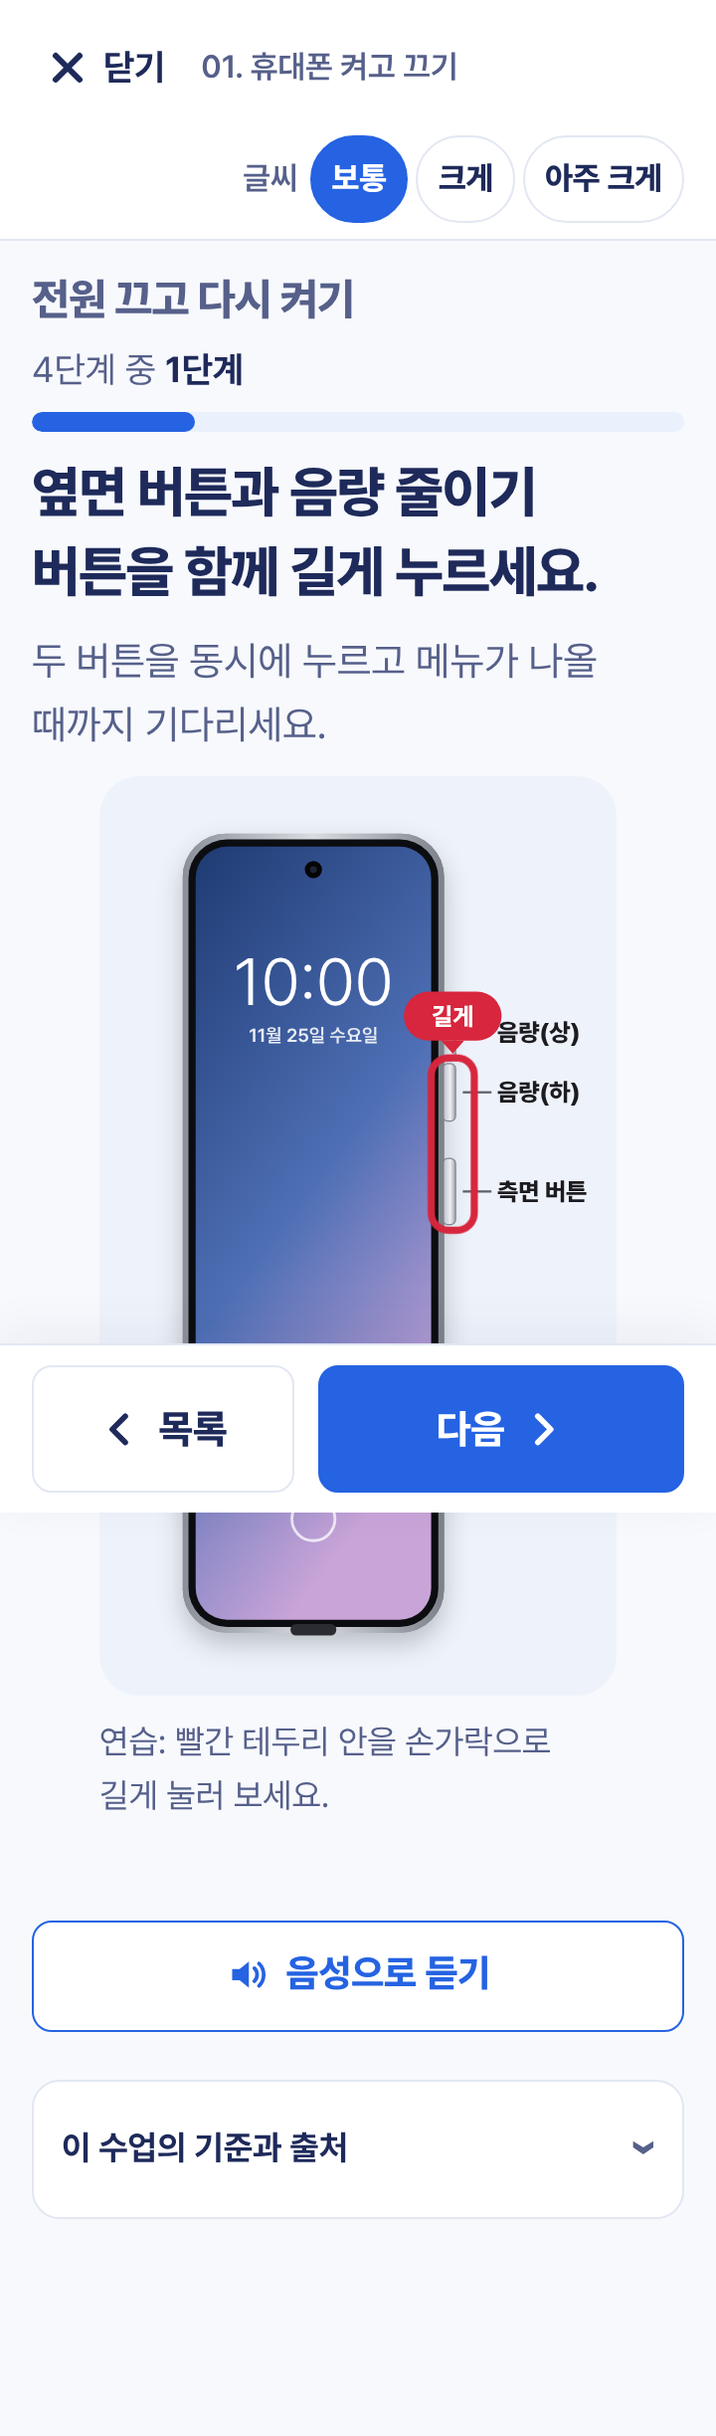
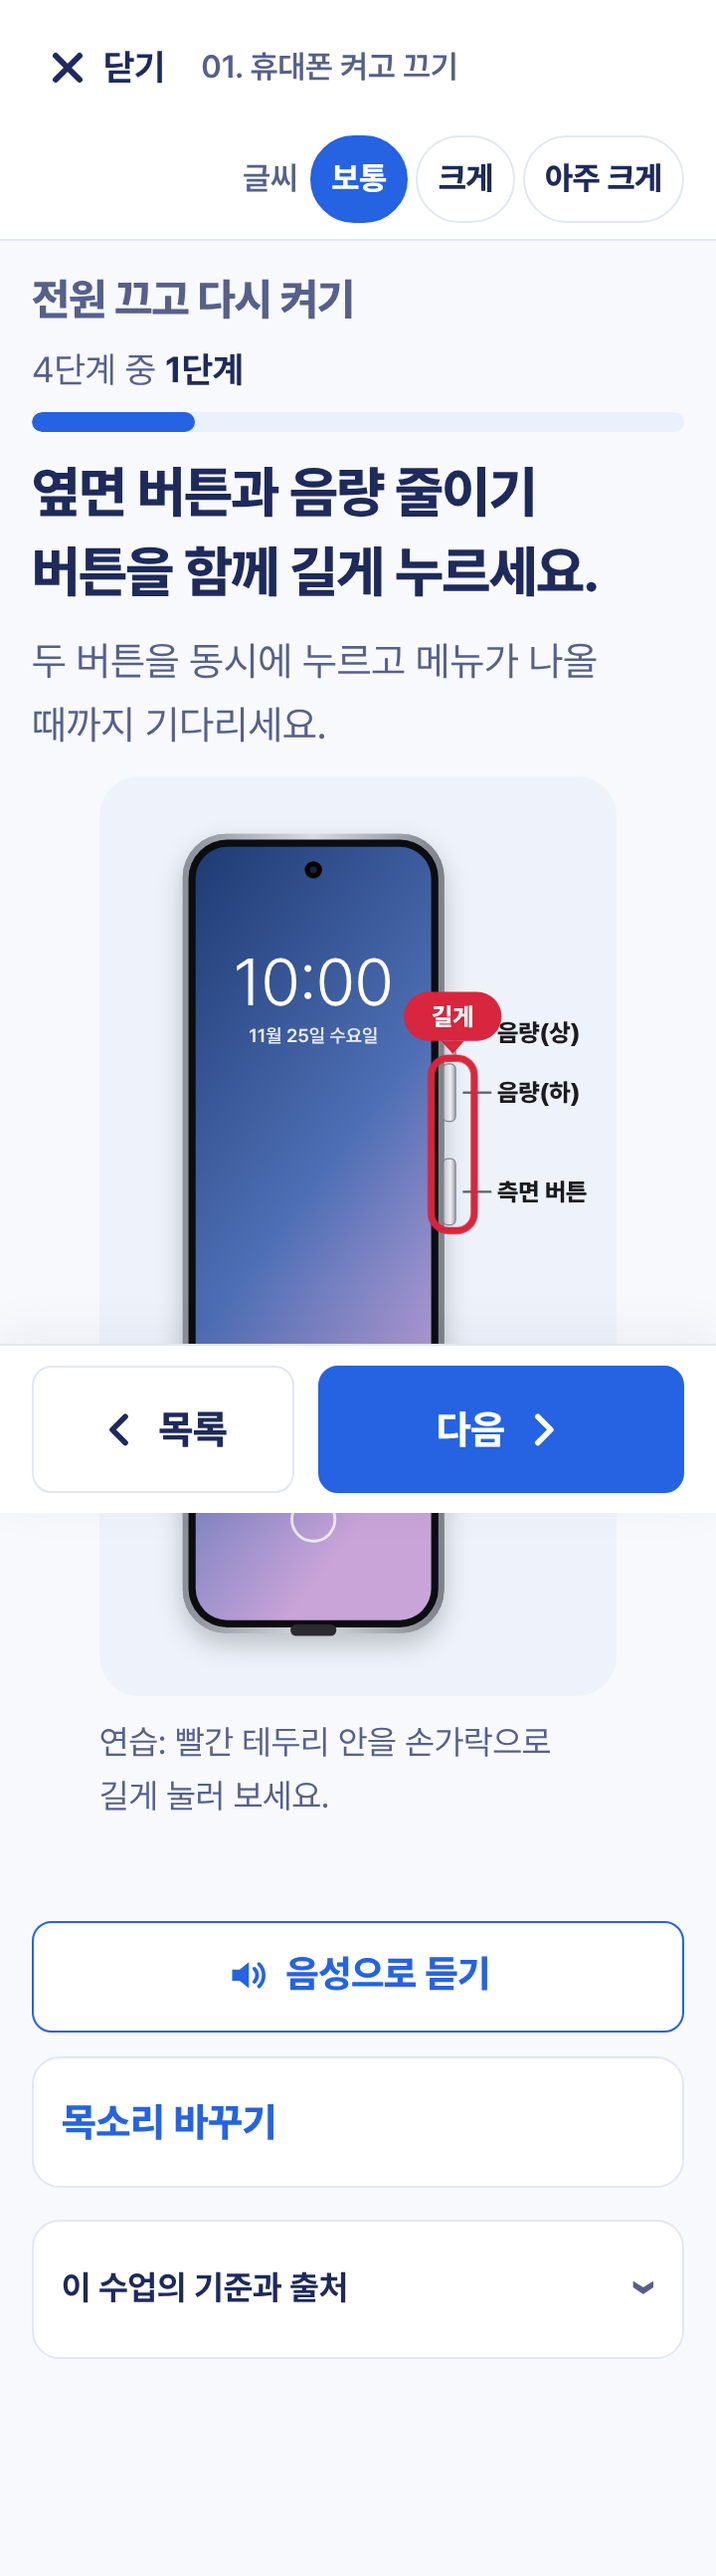
음성 안내: ‘첫 번째 단계’처럼 읽기, 선명한 목소리 자동 선택·목소리 바꾸기
- 단계를 ‘N단계 중 M단계’ 대신 ‘첫 번째·두 번째 단계’로 읽고 마지막 단계는 알려 줌
- 영어 이름·기호·전화번호를 읽기 좋은 말로(와이파이, 플레이 스토어, 음량 내리기, 공일공)
- 기기의 한국어 음성 중 고품질(신경망·온라인·Google·삼성) 음성을 먼저 고르고, 다른 목소리를 골라 들어 보고 기억
- 화면 낭독기용 진행 문구도 ‘두 번째 단계, 모두 4단계’

Claude-Session: https://claude.ai/code/session_01Q3BcEgi969WHnWAarB2Rma

diff --git a/assets/app.js b/assets/app.js
@@ -12,12 +12,13 @@
  *
  * 진행 상황과 글씨 크기는 이 기기의 localStorage 에만 저장한다(서버로 보내지 않음).
  */
-import { CATEGORIES } from '../data/categories.js?v=20261125.0759';
-import { CHAPTERS, GROUPS, findLesson, allLessons } from '../data/galaxy/index.js?v=20261125.0759';
-import { BASE } from '../data/galaxy/helpers.js?v=20261125.0759';
-import { renderScreen } from './screens.js?v=20261125.0759';
-import { appInfo, appIconStandalone } from './apps.js?v=20261125.0759';
-import { VERSION } from './version.js?v=20261125.0759';
+import { CATEGORIES } from '../data/categories.js?v=20261125.0823';
+import { CHAPTERS, GROUPS, findLesson, allLessons } from '../data/galaxy/index.js?v=20261125.0823';
+import { BASE } from '../data/galaxy/helpers.js?v=20261125.0823';
+import { renderScreen } from './screens.js?v=20261125.0823';
+import { appInfo, appIconStandalone } from './apps.js?v=20261125.0823';
+import { speechText, stepWords, pickVoice, koreanVoices, voiceLabel, SPEECH } from './speech.js?v=20261125.0823';
+import { VERSION } from './version.js?v=20261125.0823';
 
 const STORE_KEY = 'dojeon365.galaxy.v1';
 // 목차 구분별 분야 색(디자인 시스템): 기초 파랑, 생활 초록, 응용 보라, 고급 및 문제 해결 남색
@@ -318,7 +319,7 @@ function viewCard(lesson, chapter, idx) {
     ${lesson.models ? `<p class="badge badge--model">${esc(lesson.models)}</p>` : ''}
     <p class="step" aria-hidden="true"><span class="step__text">${total}단계 중 <strong>${idx + 1}단계</strong></span>
       <span class="step__bar"><span style="width:${((idx + 1) / total) * 100}%"></span></span></p>
-    <h2 class="instr" id="instr" tabindex="-1"><span class="sr-only">${total}단계 중 ${idx + 1}단계. </span>${esc(card.text)}</h2>
+    <h2 class="instr" id="instr" tabindex="-1"><span class="sr-only">${stepWords(idx, total)}, 모두 ${total}단계. </span>${esc(card.text)}</h2>
     ${appTag(card)}
     ${card.hint ? `<p class="hint">${esc(card.hint)}</p>` : ''}
     ${card.note ? `<p class="note"><strong>알아두세요</strong> ${esc(card.note)}</p>` : ''}
@@ -328,6 +329,11 @@ function viewCard(lesson, chapter, idx) {
     </figure>
     <p class="feedback" id="feedback" role="status" aria-live="polite"></p>
     <button type="button" class="btn btn--speak" data-speak>${ICON.speak}<span>음성으로 듣기</span></button>
+    <details class="voice" data-voice-box hidden>
+      <summary>목소리 바꾸기</summary>
+      <p class="voice__help">마음에 드는 목소리를 누르면 바로 들려 드려요. 고른 목소리를 기억해요.</p>
+      <div class="voice__list" role="radiogroup" aria-label="목소리" data-voice-list></div>
+    </details>
     <details class="meta">
       <summary>이 수업의 기준과 출처</summary>
       <dl>
@@ -424,6 +430,7 @@ function route() {
   } else html = viewNotFound();
   app.innerHTML = html;
   document.body.dataset.route = location.hash || '#/';
+  renderVoiceList();
   window.scrollTo(0, 0);
   const target = focusInstr ? document.getElementById('instr') : null;
   if (target) target.focus({ preventScroll: true });
@@ -511,25 +518,52 @@ function onPointerUp(e) {
 
 /* ---------- 이벤트 ---------- */
 
+/* ---------- 음성 ---------- */
+
+let voices = [];
+function loadVoices() {
+  if (!('speechSynthesis' in window)) return;
+  voices = window.speechSynthesis.getVoices() ?? [];
+  renderVoiceList();
+}
+
+/** ‘목소리 바꾸기’: 한국어 목소리가 둘 이상일 때만 보인다 */
+function renderVoiceList() {
+  const box = document.querySelector('[data-voice-box]');
+  const list = document.querySelector('[data-voice-list]');
+  if (!box || !list) return;
+  const ko = koreanVoices(voices);
+  box.hidden = ko.length < 2;
+  if (ko.length < 2) return;
+  const current = pickVoice(voices, store.voice);
+  list.innerHTML = ko.slice(0, 8).map((v, i) => `<label class="voice__opt">
+      <input type="radio" name="voice" value="${esc(v.voiceURI)}" ${v === current ? 'checked' : ''} data-voice>
+      <span>${esc(voiceLabel(v))}${i === 0 ? ' <em>가장 선명</em>' : ''}</span></label>`).join('');
+}
+
+function speak(text, btn) {
+  const u = new SpeechSynthesisUtterance(text);
+  u.lang = 'ko-KR';
+  u.rate = SPEECH.rate;
+  u.pitch = SPEECH.pitch;
+  const v = pickVoice(voices.length ? voices : window.speechSynthesis.getVoices(), store.voice);
+  if (v) u.voice = v;
+  u.onend = () => { speaking = false; if (btn) btn.querySelector('span').textContent = '음성으로 듣기'; };
+  window.speechSynthesis.cancel();
+  window.speechSynthesis.speak(u);
+  speaking = true;
+  if (btn) btn.querySelector('span').textContent = '듣기 멈추기';
+}
+
 function speakCurrent(btn) {
   if (!('speechSynthesis' in window) || typeof SpeechSynthesisUtterance === 'undefined') {
     feedback('이 기기에서는 음성 듣기를 쓸 수 없어요.', 'miss');
     return;
   }
   if (speaking) { stopSpeak(); btn.querySelector('span').textContent = '음성으로 듣기'; return; }
-  const instr = document.getElementById('instr');
-  const hint = document.querySelector('.hint');
-  const text = [instr?.textContent, hint?.textContent].filter(Boolean).join(' ');
-  const u = new SpeechSynthesisUtterance(text);
-  u.lang = 'ko-KR';
-  u.rate = 0.9;
-  const ko = window.speechSynthesis.getVoices().find((v) => v.lang?.startsWith('ko'));
-  if (ko) u.voice = ko;
-  u.onend = () => { speaking = false; btn.querySelector('span').textContent = '음성으로 듣기'; };
-  window.speechSynthesis.cancel();
-  window.speechSynthesis.speak(u);
-  speaking = true;
-  btn.querySelector('span').textContent = '듣기 멈추기';
+  if (!currentCard) return;
+  const { card, idx, lesson } = currentCard;
+  speak(speechText({ text: card.text, hint: card.hint, idx, total: lesson.cards.length }), btn);
 }
 
 app.addEventListener('click', (e) => {
@@ -561,6 +595,13 @@ app.addEventListener('click', (e) => {
   if (hit && e.detail === 0 && currentCard) practiceSuccess();
 });
 
+app.addEventListener('change', (e) => {
+  if (!e.target.matches('[data-voice]')) return;
+  store.voice = e.target.value;
+  save();
+  speak('안녕하세요. 이 목소리로 읽어 드릴게요.', document.querySelector('[data-speak]'));
+});
+
 app.addEventListener('submit', (e) => {
   if (!e.target.matches('[data-search]')) return;
   e.preventDefault();
@@ -578,4 +619,8 @@ document.addEventListener('keydown', (e) => {
 });
 
 applyFont();
+if ('speechSynthesis' in window) {
+  loadVoices();
+  window.speechSynthesis.addEventListener?.('voiceschanged', loadVoices);
+}
 route();

diff --git a/assets/speech.js b/assets/speech.js
@@ -1,0 +1,95 @@
+/**
+ * 음성 안내: 읽을 문장 만들기와 목소리 고르기
+ *
+ * - 단계는 ‘4단계 중 1단계’가 아니라 ‘첫 번째 단계’, ‘두 번째 단계’로 읽는다.
+ * - 영어 이름·기호·전화번호는 소리 내어 읽기 좋은 말로 바꾼다(예: Wi-Fi → 와이파이, 010 → 공일공).
+ * - 목소리는 기기에 있는 한국어 음성 중 선명한 고품질 음성(신경망·온라인·Google·삼성 음성)을 먼저 고른다.
+ */
+
+const ORDINAL = ['', '첫', '두', '세', '네', '다섯', '여섯', '일곱', '여덟', '아홉', '열', '열한', '열두', '열세', '열네', '열다섯', '열여섯', '열일곱', '열여덟', '열아홉', '스무'];
+
+/** 1 → ‘첫 번째’, 2 → ‘두 번째’ */
+export function ordinal(n) {
+  return ORDINAL[n] ? `${ORDINAL[n]} 번째` : `${n}번째`;
+}
+
+/** 단계 이름: ‘첫 번째 단계’ (마지막이면 ‘마지막 단계’를 덧붙임) */
+export function stepWords(idx, total) {
+  const base = `${ordinal(idx + 1)} 단계`;
+  return idx === total - 1 && total > 1 ? `${base}, 마지막 단계` : base;
+}
+
+const DIGIT = ['공', '일', '이', '삼', '사', '오', '육', '칠', '팔', '구'];
+
+// 긴 말부터 바꾼다
+const WORDS = [
+  ['Samsung Global Goals', '삼성 글로벌 골'], ['Galaxy AI', '갤럭시 에이아이'], ['Galaxy Store', '갤럭시 스토어'], ['Google Play', '구글 플레이'],
+  ['Smart Switch', '스마트 스위치'], ['Smart View', '스마트 뷰'], ['SmartThings', '스마트싱스'], ['Play 스토어', '플레이 스토어'],
+  ['Always On Display', '올웨이즈 온 디스플레이'], ['One UI', '원 유아이'], ['Android', '안드로이드'], ['TalkBack', '톡백'],
+  ['YouTube', '유튜브'], ['Google', '구글'], ['Chrome', '크롬'], ['Gemini', '제미나이'], ['Gmail', '지메일'], ['Windows', '윈도우'],
+  ['Wi-Fi', '와이파이'], ['eSIM', '이심'], ['USIM', '유심'], ['Nano-SIM', '나노 심'], ['SIM', '심'], ['NFC', '엔에프씨'], ['QR', '큐알'],
+  ['PIN', '핀'], ['SOS', '에스오에스'], ['AOD', '에이오디'], ['DeX', '덱스'], ['PC', '피씨'], ['TV', '티브이'], ['AI', '에이아이'],
+  ['S펜', '에스펜'], ['USB', '유에스비'], ['Ultra', '울트라'], ['Edge', '엣지'], ['Now brief', '나우 브리프'], ['UWB', '유더블유비'],
+  ['음량(상)', '음량 올리기'], ['음량(하)', '음량 내리기'], ['한/영', '한영'], ['!#1', '느낌표 샵 일'], ['1x', '일 배'],
+];
+
+/** 소리 내어 읽기 좋은 문장으로 바꾸기 */
+export function forSpeech(text) {
+  let s = String(text ?? '');
+  // 전화번호는 숫자를 하나씩: 010-0000-0000 → 공일공, 공공공공, 공공공공
+  s = s.replace(/\b(\d{2,4})-(\d{3,4})-(\d{4})\b/g, (_, a, b, c) => [a, b, c].map((g) => [...g].map((d) => DIGIT[d]).join('')).join(', '));
+  for (const [from, to] of WORDS) s = s.split(from).join(to);
+  s = s
+    .replace(/\((?:⌫|☆|↵|⌄|\+|AI)\)/g, '')
+    .replace(/‘\+’/g, '더하기 모양')
+    .replace(/[‘’“”]/g, '')
+    .replace(/[⌫☆↵⌄→]/g, ' ')
+    .replace(/\s{2,}/g, ' ')
+    .trim();
+  return s;
+}
+
+/** 읽을 문장 전체: ‘첫 번째 단계. 설정 앱을 누르세요. (보조 설명)’ */
+export function speechText({ text, hint, idx, total }) {
+  return [`${stepWords(idx, total)}.`, forSpeech(text), hint ? forSpeech(hint) : ''].filter(Boolean).join(' ');
+}
+
+/* ---------- 목소리 고르기 ---------- */
+
+const GOOD = /(natural|neural|online|enhanced|premium|wavenet|studio|journey|고품질)/i;
+const BRAND = [[/google/i, 40], [/samsung|smt/i, 35], [/microsoft/i, 20], [/(yuna|sunhi|injoon|hyunsu|seoyeon|jimin)/i, 25]];
+const POOR = /(compact|eloquence|espeak|robot)/i;
+
+/** 목소리 점수(높을수록 선명) */
+export function voiceScore(v) {
+  if (!v || !/^ko/i.test(v.lang ?? '')) return -1;
+  let s = 10;
+  const name = `${v.name ?? ''} ${v.voiceURI ?? ''}`;
+  if (GOOD.test(name)) s += 50;
+  for (const [re, pts] of BRAND) if (re.test(name)) { s += pts; break; }
+  if (POOR.test(name)) s -= 30;
+  if (v.localService === false) s += 5; // 온라인 음성이 대개 더 자연스럽다
+  if (v.default) s += 2;
+  return s;
+}
+
+/** 한국어 목소리를 선명한 순서로 */
+export function koreanVoices(list) {
+  return [...(list ?? [])].filter((v) => voiceScore(v) >= 0).sort((a, b) => voiceScore(b) - voiceScore(a));
+}
+
+/** 저장한 목소리(voiceURI)가 있으면 그것, 없으면 가장 선명한 목소리 */
+export function pickVoice(list, savedUri) {
+  const ko = koreanVoices(list);
+  return ko.find((v) => v.voiceURI === savedUri) ?? ko[0] ?? null;
+}
+
+/** 목소리 이름을 짧고 알아보기 쉽게 */
+export function voiceLabel(v) {
+  const name = String(v.name ?? '').replace(/\s*\(.*?\)\s*/g, ' ').replace(/Microsoft|Google|Korean|Korea|한국의|\bko-KR\b/gi, '').trim();
+  const kind = GOOD.test(`${v.name} ${v.voiceURI}`) ? '고품질' : v.localService === false ? '온라인' : '기기';
+  const brand = /google/i.test(v.name) ? 'Google' : /samsung|smt/i.test(v.name) ? '삼성' : /microsoft/i.test(v.name) ? 'Microsoft' : '';
+  return [brand, name || '한국어', `(${kind})`].filter(Boolean).join(' ');
+}
+
+export const SPEECH = { rate: 0.92, pitch: 1.0 };

diff --git a/tests/speech.test.js b/tests/speech.test.js
@@ -1,0 +1,37 @@
+/** 음성 안내 점검 */
+import test from 'node:test';
+import assert from 'node:assert/strict';
+import { ordinal, stepWords, forSpeech, speechText, pickVoice, koreanVoices } from '../assets/speech.js';
+
+test('단계는 첫 번째·두 번째로 읽는다', () => {
+  assert.equal(ordinal(1), '첫 번째');
+  assert.equal(ordinal(2), '두 번째');
+  assert.equal(ordinal(4), '네 번째');
+  assert.equal(ordinal(11), '열한 번째');
+  assert.equal(stepWords(0, 4), '첫 번째 단계');
+  assert.equal(stepWords(3, 4), '네 번째 단계, 마지막 단계');
+  const t = speechText({ text: '‘설정’ 앱을 누르세요.', hint: '홈 화면에 없으면 찾으세요.', idx: 1, total: 4 });
+  assert.equal(t, '두 번째 단계. 설정 앱을 누르세요. 홈 화면에 없으면 찾으세요.');
+  assert.ok(!/단계 중/.test(t));
+});
+
+test('영어 이름·기호·전화번호를 읽기 좋게 바꾼다', () => {
+  assert.equal(forSpeech('‘Wi-Fi’ 스위치를 눌러 켜세요.'), '와이파이 스위치를 눌러 켜세요.');
+  assert.equal(forSpeech('‘Play 스토어’ 앱을 누르세요.'), '플레이 스토어 앱을 누르세요.');
+  assert.equal(forSpeech('그림에서 음량(하) 버튼을 누르세요.'), '그림에서 음량 내리기 버튼을 누르세요.');
+  assert.equal(forSpeech('지우기 버튼(⌫)을 한 번 누르세요.'), '지우기 버튼을 한 번 누르세요.');
+  assert.equal(forSpeech('010-0000-0000'), '공일공, 공공공공, 공공공공');
+});
+
+test('가장 선명한 한국어 목소리를 먼저 고른다', () => {
+  const list = [
+    { name: 'English US', lang: 'en-US', voiceURI: 'en' },
+    { name: 'ko-kr-x-kob-local', lang: 'ko-KR', voiceURI: 'local', localService: true, default: true },
+    { name: 'Google 한국의', lang: 'ko-KR', voiceURI: 'google', localService: false },
+    { name: 'Microsoft SunHi Online (Natural) - Korean (Korea)', lang: 'ko-KR', voiceURI: 'sunhi', localService: false },
+  ];
+  assert.deepEqual(koreanVoices(list).map((v) => v.voiceURI), ['sunhi', 'google', 'local']);
+  assert.equal(pickVoice(list).voiceURI, 'sunhi');
+  assert.equal(pickVoice(list, 'google').voiceURI, 'google', '고른 목소리를 기억');
+  assert.equal(pickVoice([{ name: 'English', lang: 'en-US' }]), null);
+});

diff --git a/assets/app.css b/assets/app.css
@@ -284,3 +284,11 @@ svg { display: block; }
 .version { margin: 28px 0 0; font-size: 0.9375rem; color: var(--ink-2); }
 .stage--object .stage__frame { border: 0; border-radius: 20px; background: transparent; }
 .stage--object.stage--ok .stage__frame { outline: 4px solid var(--ok); }
+.voice { margin: -4px 0 16px; padding: 10px 14px; border-radius: var(--radius); background: var(--surface); border: 1px solid var(--line); }
+.voice summary { min-height: 44px; display: flex; align-items: center; font-weight: 800; cursor: pointer; color: var(--primary); }
+.voice__help { margin: 4px 0 8px; font-size: 1.0625rem; color: var(--ink-2); }
+.voice__list { display: grid; gap: 8px; }
+.voice__opt { display: flex; align-items: center; gap: 12px; min-height: 52px; padding: 8px 12px; border: 1.5px solid var(--line); border-radius: var(--radius-sm); cursor: pointer; font-size: 1.125rem; font-weight: 700; }
+.voice__opt input { width: 1.4rem; height: 1.4rem; accent-color: var(--primary); flex: none; }
+.voice__opt:has(input:checked) { border-color: var(--primary); background: var(--surface-2); }
+.voice__opt em { font-style: normal; font-size: 0.9375rem; color: var(--cat-3); margin-left: 6px; }

diff --git a/data/galaxy/ch14-22.js b/data/galaxy/ch14-22.js
@@ -1,5 +1,5 @@
 /** [응용] 14~18, [고급 및 문제 해결] 19~22 */
-import { lesson, app, tap, menu, path, toggle, self, look, swipe, hold, back, goHome, openQuick, M, SRC, MENUS, SIDE, HOME, QUICK, PRACTICE_ONLY } from './helpers.js?v=20261125.0759';
+import { lesson, app, tap, menu, path, toggle, self, look, swipe, hold, back, goHome, openQuick, M, SRC, MENUS, SIDE, HOME, QUICK, PRACTICE_ONLY } from './helpers.js?v=20261125.0823';
 
 const WALLET = { kind: 'app', title: '월렛', back: false, actions: ['추가'], hero: '결제 카드 ●●●● 1234', heroName: '결제 카드', heroColor: '#283593', lines: ['교통 카드 · 멤버십 · 모바일 신분증'] };
 const WALLET_ADD = { kind: 'dialog', style: 'sheet', title: '추가', buttons: ['결제 카드', '교통 카드', '모바일 신분증', '멤버십', '티켓·쿠폰'] };

diff --git a/index.html b/index.html
@@ -9,9 +9,9 @@
 <title>편한자판 시니어 교육</title>
 <link rel="icon" href="assets/icon.svg" type="image/svg+xml">
 <link rel="manifest" href="site.webmanifest">
-<link rel="stylesheet" href="assets/fonts/pretendard/pretendardvariable-dynamic-subset.css?v=20261125.0759">
-<link rel="stylesheet" href="assets/app.css?v=20261125.0759">
-<script type="module" src="assets/app.js?v=20261125.0759"></script>
+<link rel="stylesheet" href="assets/fonts/pretendard/pretendardvariable-dynamic-subset.css?v=20261125.0823">
+<link rel="stylesheet" href="assets/app.css?v=20261125.0823">
+<script type="module" src="assets/app.js?v=20261125.0823"></script>
 </head>
 <body>
 <a class="sr-only" href="#main">본문 바로가기</a>

diff --git a/data/galaxy/ch07-13.js b/data/galaxy/ch07-13.js
@@ -1,5 +1,5 @@
 /** [생활] 07~13 */
-import { lesson, app, tap, menu, path, toggle, self, look, swipe, hold, back, goHome, openQuick, openNoti, M, SRC, MENUS, SIDE, HOME, APPS, QUICK, NOTI, PRACTICE_ONLY } from './helpers.js?v=20261125.0759';
+import { lesson, app, tap, menu, path, toggle, self, look, swipe, hold, back, goHome, openQuick, openNoti, M, SRC, MENUS, SIDE, HOME, APPS, QUICK, NOTI, PRACTICE_ONLY } from './helpers.js?v=20261125.0823';
 
 const Q = (on) => ({ ...QUICK, on });
 

diff --git a/data/galaxy/index.js b/data/galaxy/index.js
@@ -1,7 +1,7 @@
 /** 갤럭시 휴대폰 사용방법: 22개 목차 */
-import { BASIC } from './ch01-06.js?v=20261125.0759';
-import { LIFE } from './ch07-13.js?v=20261125.0759';
-import { APPLY, ADV } from './ch14-22.js?v=20261125.0759';
+import { BASIC } from './ch01-06.js?v=20261125.0823';
+import { LIFE } from './ch07-13.js?v=20261125.0823';
+import { APPLY, ADV } from './ch14-22.js?v=20261125.0823';
 
 export const GROUPS = [
   { id: 'basic', title: '기초' },

diff --git a/data/galaxy/ch01-06.js b/data/galaxy/ch01-06.js
@@ -1,5 +1,5 @@
 /** [기초] 01~06 */
-import { lesson, app, tap, menu, path, toggle, self, look, swipe, hold, back, goHome, M, SRC, MENUS, SIDE, HOME, APPS, PHONE_TABS, PRACTICE_ONLY } from './helpers.js?v=20261125.0759';
+import { lesson, app, tap, menu, path, toggle, self, look, swipe, hold, back, goHome, M, SRC, MENUS, SIDE, HOME, APPS, PHONE_TABS, PRACTICE_ONLY } from './helpers.js?v=20261125.0823';
 
 const POWER = { kind: 'dialog', style: 'power' };
 

diff --git a/assets/screens.js b/assets/screens.js
@@ -9,7 +9,7 @@
  * - 실제 갤럭시 사진으로 바꿀 때는 card.photo 를 넣으면 이 그림 대신 사진이 쓰인다(app.js 참고).
  */
 
-import { appIconSvg, appInfo, settingIconSvg } from './apps.js?v=20261125.0759';
+import { appIconSvg, appInfo, settingIconSvg } from './apps.js?v=20261125.0823';
 
 const W = 360;
 const H = 640;

diff --git a/data/galaxy/helpers.js b/data/galaxy/helpers.js
@@ -16,7 +16,7 @@
  * 메뉴 이름은 삼성전자 갤럭시 S26 시리즈 사용 설명서(Android 17, Rev.1.0, 2026년 9월)를 기준으로 한다.
  */
 
-import { appInfo } from '../../assets/apps.js?v=20261125.0759';
+import { appInfo } from '../../assets/apps.js?v=20261125.0823';
 
 /* ---------- 출처 ---------- */
 

diff --git a/assets/version.js b/assets/version.js
@@ -1,2 +1,2 @@
 /** 배포 버전(scripts/bump-version.mjs 가 적음) */
-export const VERSION = '20261125.0759';
+export const VERSION = '20261125.0823';
